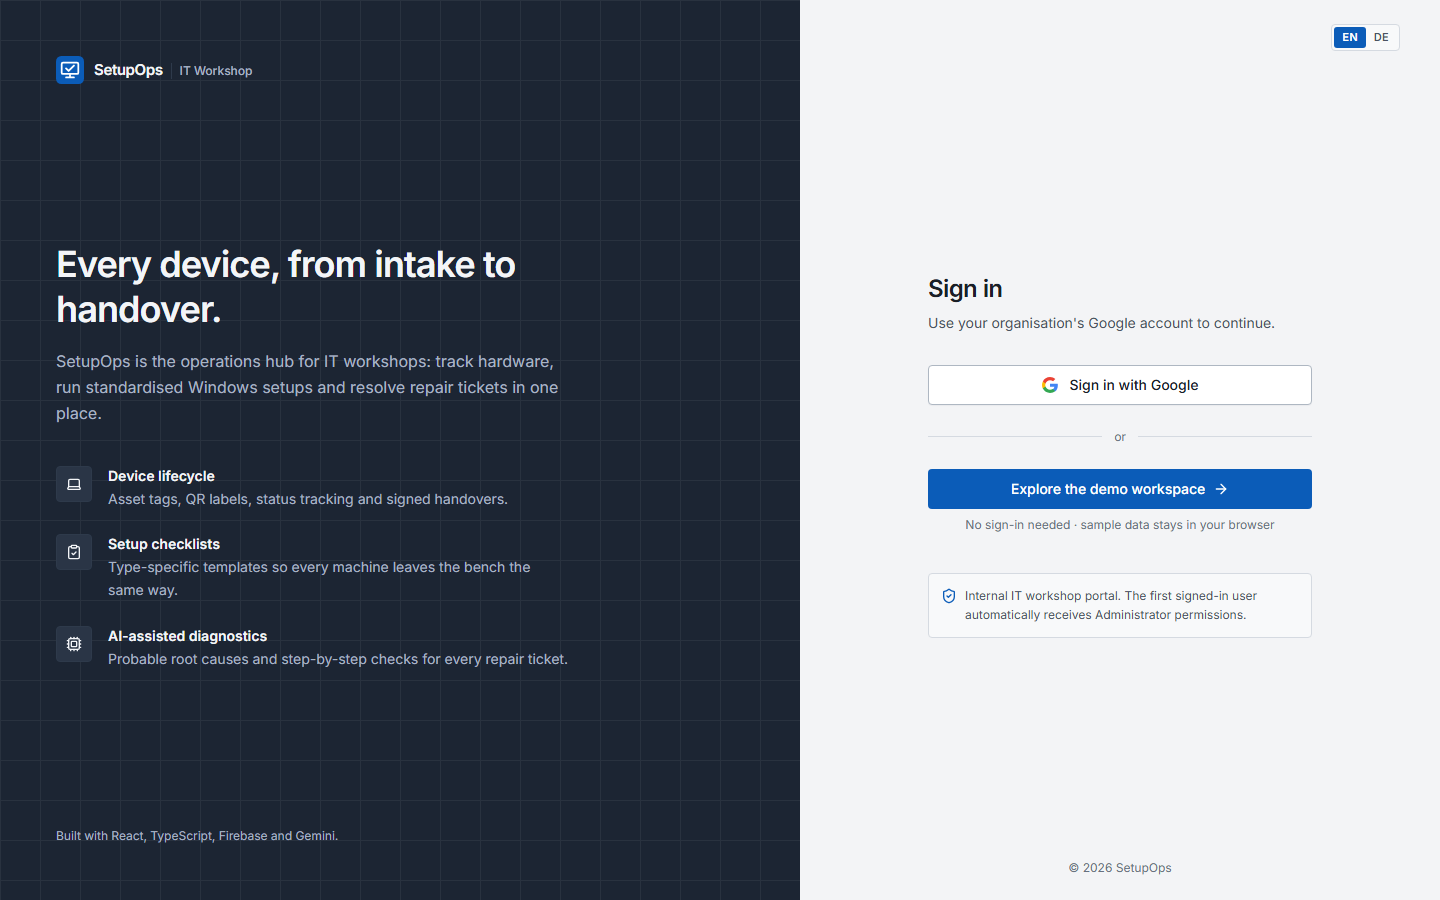
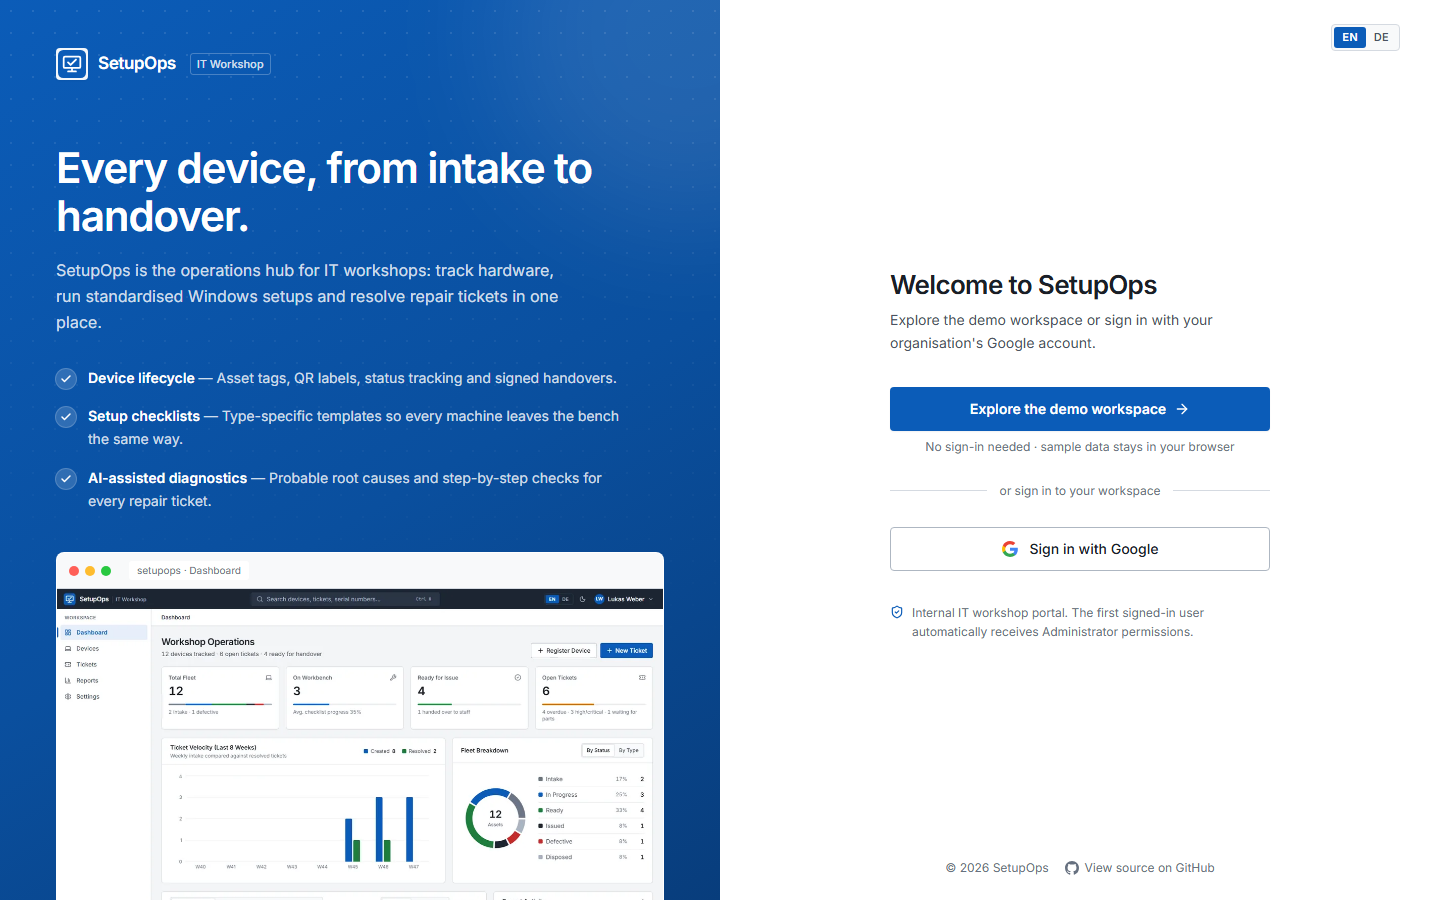
feat(ui): blue/white split sign-in page
- Brand-blue story panel (headline, feature points, framed real dashboard
  preview in EN/DE) and white action panel
- "Explore the demo workspace" is the primary action, Google sign-in
  secondary; GitHub source link in the footer
- Sign-in page always uses the light palette via a .theme-light token
  scope, so it keeps its contrast when the OS is in dark mode
- Fits one screen on desktop; compact blue header on phones
- Refreshed README sign-in screenshot

diff --git a/src/pages/LoginPage.tsx b/src/pages/LoginPage.tsx
@@ -1,14 +1,17 @@
 import { useState } from 'react';
-import { AlertCircle, ArrowRight, ClipboardCheck, Cpu, Laptop, ShieldCheck } from 'lucide-react';
+import { AlertCircle, ArrowRight, Check, ShieldCheck } from 'lucide-react';
 import { useWorkshopData } from '../hooks/useWorkshopData';
+import { useLanguage } from '../hooks/useLanguage';
 import { useT, type MessageKey } from '../i18n';
-import { BrandLockup } from '../components/ui/BrandMark';
+import { BrandMark } from '../components/ui/BrandMark';
 import { LanguageSwitch } from '../components/ui/LanguageSwitch';
 
-const HIGHLIGHTS: Array<{ icon: typeof Laptop; title: MessageKey; text: MessageKey }> = [
-  { icon: Laptop, title: 'login.featureLifecycleTitle', text: 'login.featureLifecycleText' },
-  { icon: ClipboardCheck, title: 'login.featureSetupTitle', text: 'login.featureSetupText' },
-  { icon: Cpu, title: 'login.featureAiTitle', text: 'login.featureAiText' },
+const REPO_URL = 'https://github.com/aydarusfarah/SetupOps-platform';
+
+const HIGHLIGHTS: Array<{ title: MessageKey; text: MessageKey }> = [
+  { title: 'login.featureLifecycleTitle', text: 'login.featureLifecycleText' },
+  { title: 'login.featureSetupTitle', text: 'login.featureSetupText' },
+  { title: 'login.featureAiTitle', text: 'login.featureAiText' },
 ];
 
 function GoogleIcon() {
@@ -34,8 +37,21 @@ function GoogleIcon() {
   );
 }
 
+function GitHubIcon() {
+  return (
+    <svg className="h-3.5 w-3.5" viewBox="0 0 16 16" fill="currentColor" aria-hidden="true">
+      <path d="M8 0C3.58 0 0 3.58 0 8c0 3.54 2.29 6.53 5.47 7.59.4.07.55-.17.55-.38 0-.19-.01-.82-.01-1.49-2.01.37-2.53-.49-2.69-.94-.09-.23-.48-.94-.82-1.13-.28-.15-.68-.52-.01-.53.63-.01 1.08.58 1.23.82.72 1.21 1.87.87 2.33.66.07-.52.28-.87.51-1.07-1.78-.2-3.64-.89-3.64-3.95 0-.87.31-1.59.82-2.15-.08-.2-.36-1.02.08-2.12 0 0 .67-.21 2.2.82.64-.18 1.32-.27 2-.27.68 0 1.36.09 2 .27 1.53-1.04 2.2-.82 2.2-.82.44 1.1.16 1.92.08 2.12.51.56.82 1.27.82 2.15 0 3.07-1.87 3.75-3.65 3.95.29.25.54.73.54 1.48 0 1.07-.01 1.93-.01 2.2 0 .21.15.46.55.38A8.013 8.013 0 0016 8c0-4.42-3.58-8-8-8z" />
+    </svg>
+  );
+}
+
+/**
+ * Sign-in / entry page. Always rendered with the light palette (`theme-light`):
+ * brand-blue story panel on the left, white action panel on the right.
+ */
 export function LoginPage() {
   const { signInWithGoogle } = useWorkshopData();
+  const { lang } = useLanguage();
   const t = useT();
   const [loading, setLoading] = useState(false);
   const [error, setError] = useState<string | null>(null);
@@ -53,59 +69,86 @@ export function LoginPage() {
   };
 
   return (
-    <div className="grid min-h-screen bg-canvas lg:grid-cols-[minmax(0,5fr)_minmax(0,4fr)]">
-      {/* Product panel */}
-      <section className="relative hidden flex-col justify-between overflow-hidden bg-shell p-10 text-shell-fg lg:flex xl:p-14">
+    <div className="theme-light grid min-h-screen bg-surface text-fg [color-scheme:light] lg:h-screen lg:grid-cols-2 lg:overflow-hidden">
+      {/* ── Brand panel ─────────────────────────────────────────────── */}
+      <section
+        aria-label={t('login.productOverview')}
+        className="relative flex min-h-0 flex-col overflow-hidden bg-[linear-gradient(150deg,#0b5cb8_0%,#0a4f9e_55%,#083d7c_100%)] px-6 pt-8 pb-10 text-white sm:px-10 lg:px-14 lg:pt-12 lg:pb-0"
+      >
+        {/* subtle dot grid + glow */}
         <div
           aria-hidden="true"
-          className="pointer-events-none absolute inset-0 opacity-[0.06]"
-          style={{
-            backgroundImage:
-              'linear-gradient(to right, currentColor 1px, transparent 1px), linear-gradient(to bottom, currentColor 1px, transparent 1px)',
-            backgroundSize: '40px 40px',
-          }}
+          className="pointer-events-none absolute inset-0 opacity-[0.12] [background-image:radial-gradient(rgb(255_255_255/0.9)_1px,transparent_1px)] [background-size:22px_22px] [mask-image:linear-gradient(to_bottom,black,transparent_75%)]"
         />
-        <div className="relative">
-          <BrandLockup tagline={t('shell.productTagline')} />
+        <div
+          aria-hidden="true"
+          className="pointer-events-none absolute -top-40 -right-40 h-96 w-96 rounded-full bg-white/10 blur-3xl"
+        />
+
+        <div className="relative flex items-center gap-2.5">
+          <span className="rounded-input bg-white/95 p-0.5 shadow-sm">
+            <BrandMark className="h-7 w-7" />
+          </span>
+          <span className="text-[17px] font-semibold tracking-tight">SetupOps</span>
+          <span className="ml-1 rounded-control border border-white/25 px-1.5 py-0.5 text-[11px] font-medium text-white/80">
+            {t('shell.productTagline')}
+          </span>
         </div>
 
-        <div className="relative max-w-lg">
-          <h1 className="text-3xl leading-tight font-semibold tracking-tight xl:text-4xl">
+        <div className="relative mt-10 max-w-xl lg:mt-16">
+          <h1 className="text-[28px] leading-[1.15] font-semibold tracking-tight sm:text-4xl xl:text-[42px]">
             {t('login.heroTitle')}
           </h1>
-          <p className="mt-4 text-base leading-relaxed text-shell-muted">{t('login.heroText')}</p>
+          <p className="mt-4 max-w-lg text-[15px] leading-relaxed text-white/80 sm:text-base">{t('login.heroText')}</p>
 
-          <ul className="mt-10 space-y-6">
-            {HIGHLIGHTS.map(({ icon: Icon, title, text }) => (
-              <li key={title} className="flex gap-4">
-                <span className="flex h-9 w-9 shrink-0 items-center justify-center rounded-input border border-shell-line bg-shell-hover text-shell-fg">
-                  <Icon className="h-4 w-4" />
+          <ul className="mt-8 hidden space-y-4 sm:block">
+            {HIGHLIGHTS.map(({ title, text }) => (
+              <li key={title} className="flex gap-3">
+                <span className="mt-0.5 flex h-5 w-5 shrink-0 items-center justify-center rounded-full bg-white/15 ring-1 ring-white/30">
+                  <Check className="h-3 w-3" strokeWidth={3} />
                 </span>
-                <div>
-                  <p className="text-sm font-semibold">{t(title)}</p>
-                  <p className="mt-0.5 text-sm leading-relaxed text-shell-muted">{t(text)}</p>
-                </div>
+                <p className="text-sm leading-relaxed text-white/80">
+                  <span className="font-semibold text-white">{t(title)}</span> — {t(text)}
+                </p>
               </li>
             ))}
           </ul>
         </div>
 
-        <p className="relative text-xs text-shell-muted">{t('login.footerNote')}</p>
+        {/* Product preview: framed real screenshot, bleeding off the bottom edge */}
+        <figure className="relative mt-10 hidden min-h-0 flex-1 items-start overflow-hidden lg:flex">
+          <div className="w-[118%] max-w-none overflow-hidden rounded-t-dialog border border-white/25 bg-white shadow-[0_30px_60px_-15px_rgb(3_20_45/0.55)]">
+            <div className="flex items-center gap-1.5 border-b border-line bg-subtle px-3 py-2" aria-hidden="true">
+              <span className="h-2.5 w-2.5 rounded-full bg-[#ff5f57]" />
+              <span className="h-2.5 w-2.5 rounded-full bg-[#febc2e]" />
+              <span className="h-2.5 w-2.5 rounded-full bg-[#28c840]" />
+              <span className="ml-3 rounded-control bg-surface px-2 py-0.5 text-[10px] text-fg-subtle">
+                setupops · {t('shell.navDashboard')}
+              </span>
+            </div>
+            <img
+              src={`/img/preview-dashboard-${lang}.webp`}
+              alt={t('login.previewAlt')}
+              width={1200}
+              height={726}
+              className="block w-full"
+              loading="eager"
+              decoding="async"
+            />
+          </div>
+          <figcaption className="sr-only">{t('login.previewAlt')}</figcaption>
+        </figure>
       </section>
 
-      {/* Sign-in panel */}
-      <section className="flex flex-col px-6 py-6 sm:px-10">
-        <div className="flex items-center justify-between">
-          <span className="lg:hidden">
-            <BrandLockup tone="light" />
-          </span>
-          <span className="hidden lg:block" />
+      {/* ── Action panel ────────────────────────────────────────────── */}
+      <section className="flex min-h-0 flex-col overflow-y-auto bg-surface px-6 py-6 sm:px-10">
+        <div className="flex justify-end">
           <LanguageSwitch />
         </div>
 
-        <div className="mx-auto flex w-full max-w-sm flex-1 flex-col justify-center py-12">
-          <h2 className="text-2xl font-semibold tracking-tight text-fg">{t('login.signInTitle')}</h2>
-          <p className="mt-2 text-sm text-fg-muted">{t('login.signInSubtitle')}</p>
+        <main className="mx-auto flex w-full max-w-[380px] flex-1 flex-col justify-center py-10">
+          <h2 className="text-[26px] leading-tight font-semibold tracking-tight text-fg">{t('login.welcomeTitle')}</h2>
+          <p className="mt-2 text-sm leading-relaxed text-fg-muted">{t('login.welcomeText')}</p>
 
           {error && (
             <div
@@ -117,38 +160,49 @@ export function LoginPage() {
             </div>
           )}
 
-          <button
-            type="button"
-            onClick={handleLogin}
-            disabled={loading}
-            className="mt-8 flex h-10 w-full items-center justify-center gap-3 rounded-input border border-line-strong bg-surface px-4 text-sm font-medium text-fg shadow-xs transition-colors hover:bg-muted focus-visible:outline-2 focus-visible:outline-offset-2 focus-visible:outline-focus disabled:opacity-60"
-          >
-            <GoogleIcon />
-            <span>{loading ? t('login.signingIn') : t('login.signInWithGoogle')}</span>
-          </button>
-
-          <div className="my-6 flex items-center gap-3 text-xs text-fg-subtle">
-            <span className="h-px flex-1 bg-line" />
-            {t('login.or')}
-            <span className="h-px flex-1 bg-line" />
-          </div>
-
           <a
             href="/?autostart=1"
-            className="group flex h-10 w-full items-center justify-center gap-2 rounded-input bg-primary px-4 text-sm font-medium text-on-primary transition-colors hover:bg-primary-hover focus-visible:outline-2 focus-visible:outline-offset-2 focus-visible:outline-focus"
+            className="group mt-8 flex h-11 w-full items-center justify-center gap-2 rounded-input bg-primary px-4 text-sm font-semibold text-on-primary shadow-sm transition-colors hover:bg-primary-hover focus-visible:outline-2 focus-visible:outline-offset-2 focus-visible:outline-focus"
           >
             {t('login.exploreDemo')}
             <ArrowRight className="h-4 w-4 transition-transform group-hover:translate-x-0.5" />
           </a>
           <p className="mt-2 text-center text-xs text-fg-subtle">{t('login.exploreDemoHint')}</p>
 
-          <p className="mt-10 flex items-start gap-2 rounded-input border border-line bg-subtle p-3 text-xs leading-relaxed text-fg-muted">
-            <ShieldCheck className="mt-0.5 h-4 w-4 shrink-0 text-accent" />
+          <div className="my-7 flex items-center gap-3 text-xs text-fg-subtle">
+            <span className="h-px flex-1 bg-line" />
+            {t('login.orSignIn')}
+            <span className="h-px flex-1 bg-line" />
+          </div>
+
+          <button
+            type="button"
+            onClick={handleLogin}
+            disabled={loading}
+            className="flex h-11 w-full items-center justify-center gap-3 rounded-input border border-line-strong bg-surface px-4 text-sm font-medium text-fg transition-colors hover:bg-subtle focus-visible:outline-2 focus-visible:outline-offset-2 focus-visible:outline-focus disabled:opacity-60"
+          >
+            <GoogleIcon />
+            <span>{loading ? t('login.signingIn') : t('login.signInWithGoogle')}</span>
+          </button>
+
+          <p className="mt-8 flex items-start gap-2 text-xs leading-relaxed text-fg-subtle">
+            <ShieldCheck className="mt-0.5 h-3.5 w-3.5 shrink-0 text-accent" />
             {t('login.internalItWorkshopPortalThe')}
           </p>
-        </div>
+        </main>
 
-        <p className="text-center text-xs text-fg-subtle">© {new Date().getFullYear()} SetupOps</p>
+        <footer className="flex flex-wrap items-center justify-center gap-x-4 gap-y-1 text-xs text-fg-subtle">
+          <span>© {new Date().getFullYear()} SetupOps</span>
+          <a
+            href={REPO_URL}
+            target="_blank"
+            rel="noreferrer"
+            className="inline-flex items-center gap-1.5 hover:text-fg"
+          >
+            <GitHubIcon />
+            {t('login.viewSource')}
+          </a>
+        </footer>
       </section>
     </div>
   );

diff --git a/src/i18n/de.ts b/src/i18n/de.ts
@@ -526,10 +526,6 @@ export const de: Messages = {
   "login.featureSetupText": "Typspezifische Vorlagen, damit jedes Gerät die Werkbank gleich verlässt.",
   "login.featureAiTitle": "KI-gestützte Fehlerdiagnose",
   "login.featureAiText": "Wahrscheinliche Ursachen und strukturierte Prüfschritte für jedes Reparaturticket.",
-  "login.footerNote": "Entwickelt mit React, TypeScript, Firebase und Gemini.",
-  "login.signInTitle": "Anmelden",
-  "login.signInSubtitle": "Melden Sie sich mit dem Google-Konto Ihrer Organisation an.",
-  "login.or": "oder",
   "login.exploreDemo": "Demo-Arbeitsbereich ansehen",
   "login.exploreDemoHint": "Keine Anmeldung nötig · Beispieldaten bleiben im Browser",
 
@@ -604,4 +600,12 @@ export const de: Messages = {
   "shell.demoTitle": "Demo-Arbeitsbereich",
   "shell.demoText": "Nur Beispieldaten – Ihre Änderungen bleiben im Browser und werden beim Neuladen zurückgesetzt.",
   "shell.demoSignIn": "Bei einem echten Arbeitsbereich anmelden →",
+
+  // ── login (blue/white split) ──
+  "login.productOverview": "Produktübersicht",
+  "login.welcomeTitle": "Willkommen bei SetupOps",
+  "login.welcomeText": "Sehen Sie sich den Demo-Arbeitsbereich an oder melden Sie sich mit dem Google-Konto Ihrer Organisation an.",
+  "login.orSignIn": "oder bei Ihrem Arbeitsbereich anmelden",
+  "login.previewAlt": "SetupOps-Dashboard mit Bestandskennzahlen, Ticket-Durchsatz und Arbeitsliste der Techniker",
+  "login.viewSource": "Quellcode auf GitHub",
 };

diff --git a/src/i18n/en.ts b/src/i18n/en.ts
@@ -524,10 +524,6 @@ export const en = {
   "login.featureSetupText": "Type-specific templates so every machine leaves the bench the same way.",
   "login.featureAiTitle": "AI-assisted diagnostics",
   "login.featureAiText": "Probable root causes and step-by-step checks for every repair ticket.",
-  "login.footerNote": "Built with React, TypeScript, Firebase and Gemini.",
-  "login.signInTitle": "Sign in",
-  "login.signInSubtitle": "Use your organisation's Google account to continue.",
-  "login.or": "or",
   "login.exploreDemo": "Explore the demo workspace",
   "login.exploreDemoHint": "No sign-in needed · sample data stays in your browser",
 
@@ -602,6 +598,14 @@ export const en = {
   "shell.demoTitle": "Demo workspace",
   "shell.demoText": "Sample data only — your changes stay in this browser and reset when you reload.",
   "shell.demoSignIn": "Sign in to a real workspace →",
+
+  // ── login (blue/white split) ──
+  "login.productOverview": "Product overview",
+  "login.welcomeTitle": "Welcome to SetupOps",
+  "login.welcomeText": "Explore the demo workspace or sign in with your organisation's Google account.",
+  "login.orSignIn": "or sign in to your workspace",
+  "login.previewAlt": "SetupOps dashboard with fleet KPIs, ticket velocity chart and the technician work queue",
+  "login.viewSource": "View source on GitHub",
 } as const;
 
 export type MessageKey = keyof typeof en;

diff --git a/src/index.css b/src/index.css
@@ -72,7 +72,9 @@
   --font-mono: 'JetBrains Mono', ui-monospace, SFMono-Regular, Menlo, Monaco, Consolas, monospace;
 }
 
-:root {
+/* `.theme-light` re-applies the light palette to a subtree (e.g. the sign-in page) inside dark mode. */
+:root,
+.theme-light {
   /* SetupOps corporate palette — neutral greys, one firm blue. */
   --so-canvas: #f3f4f6;
   --so-surface: #ffffff;
